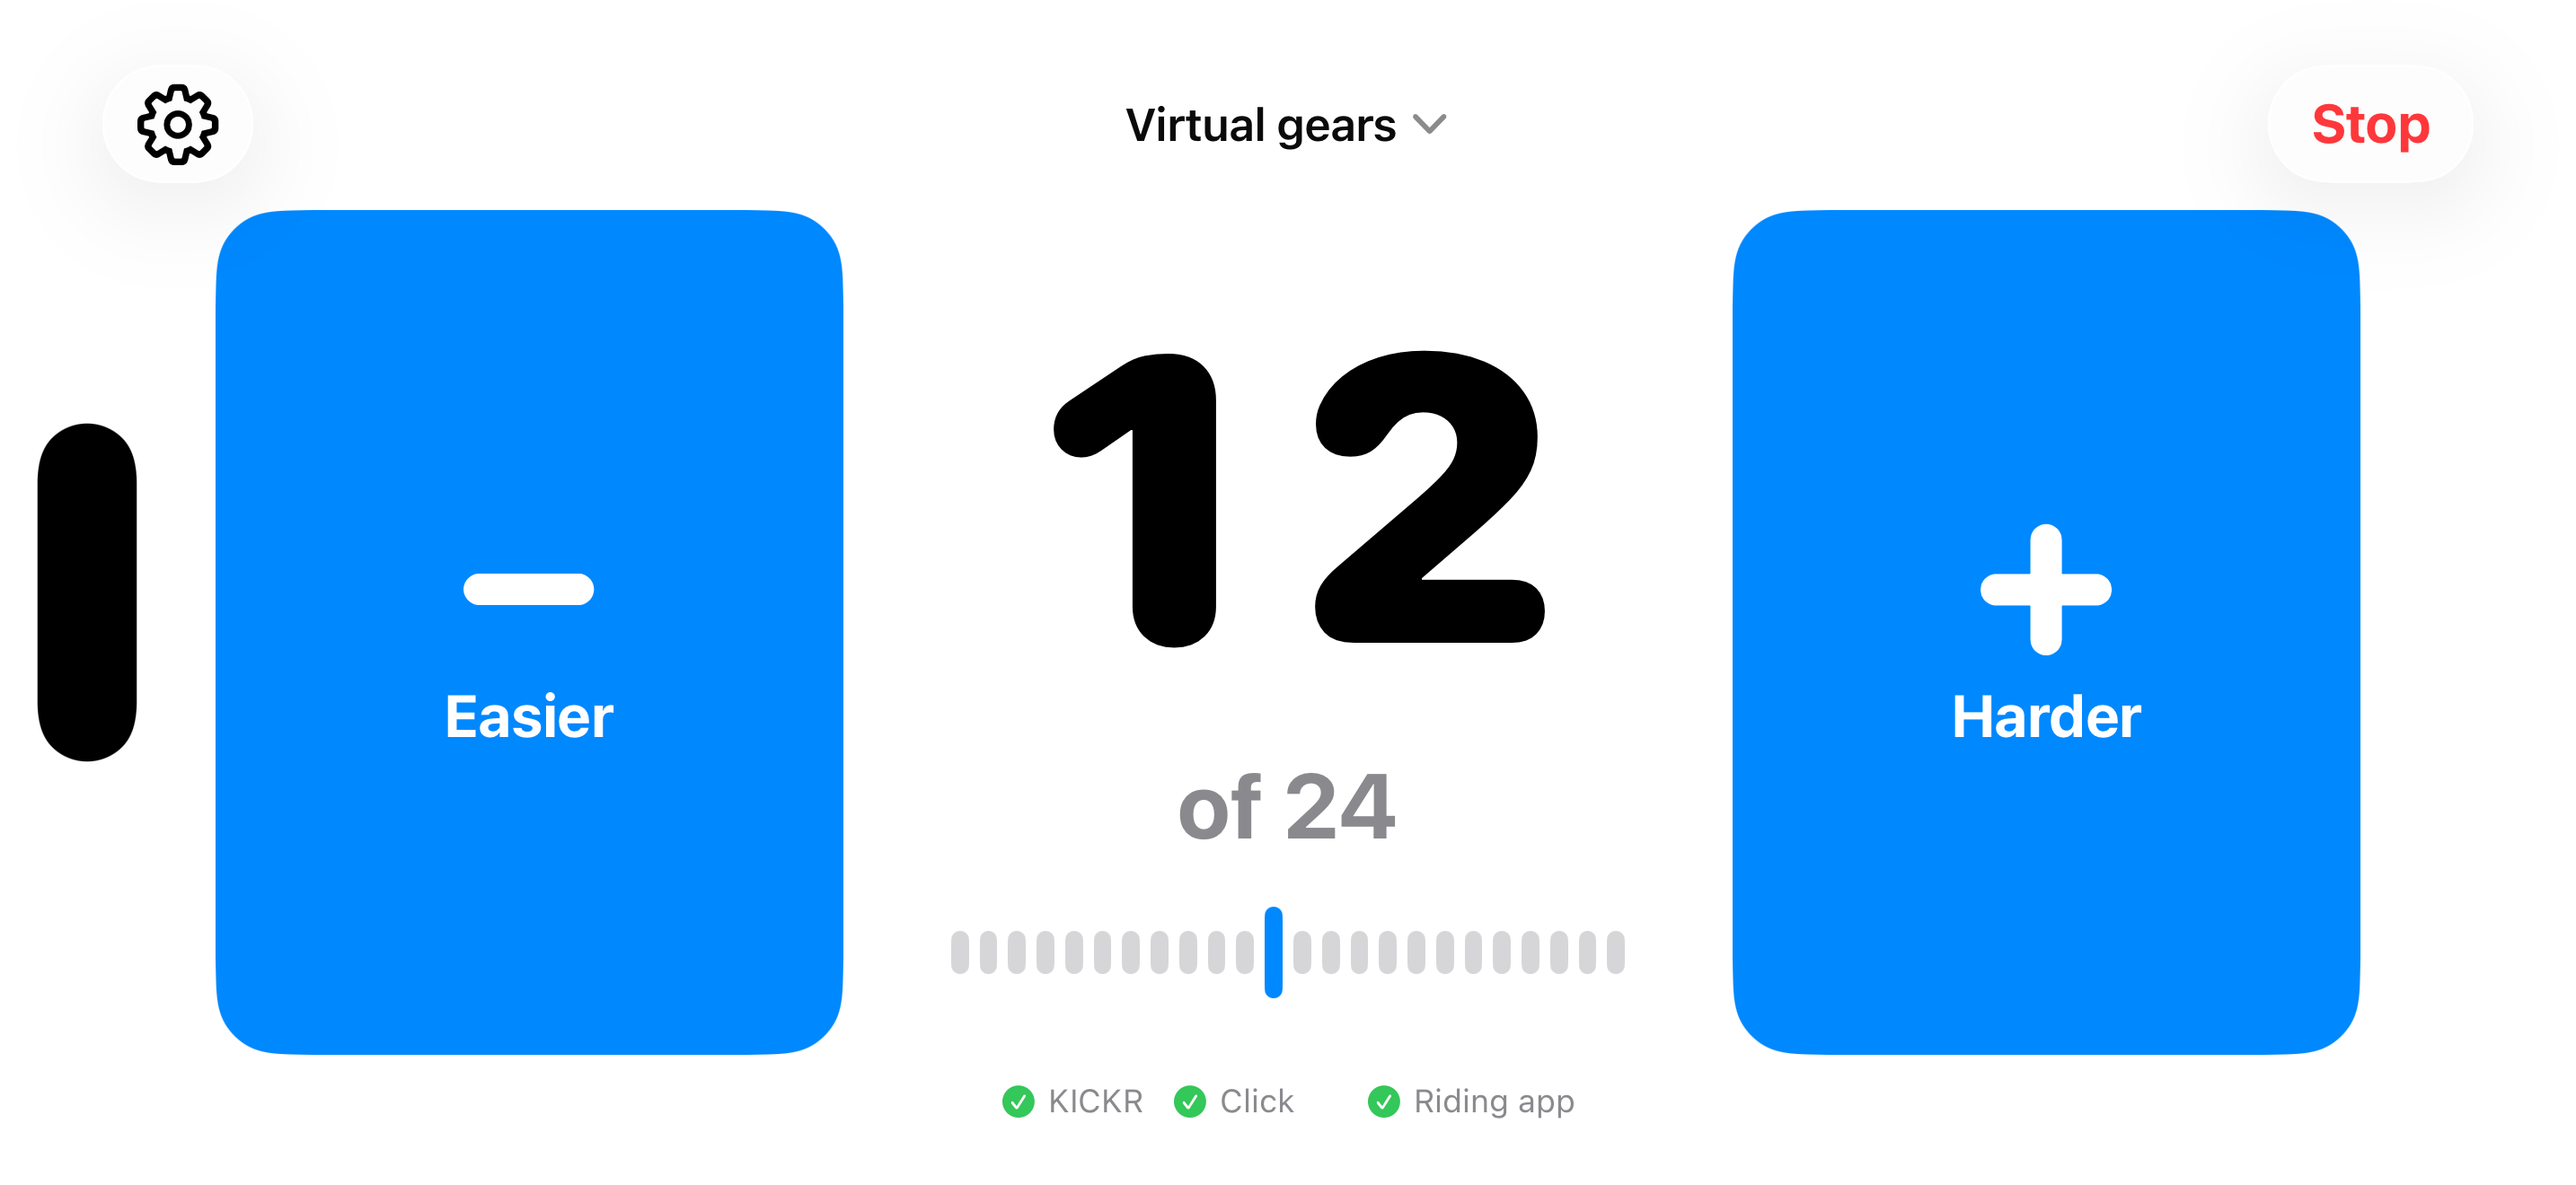
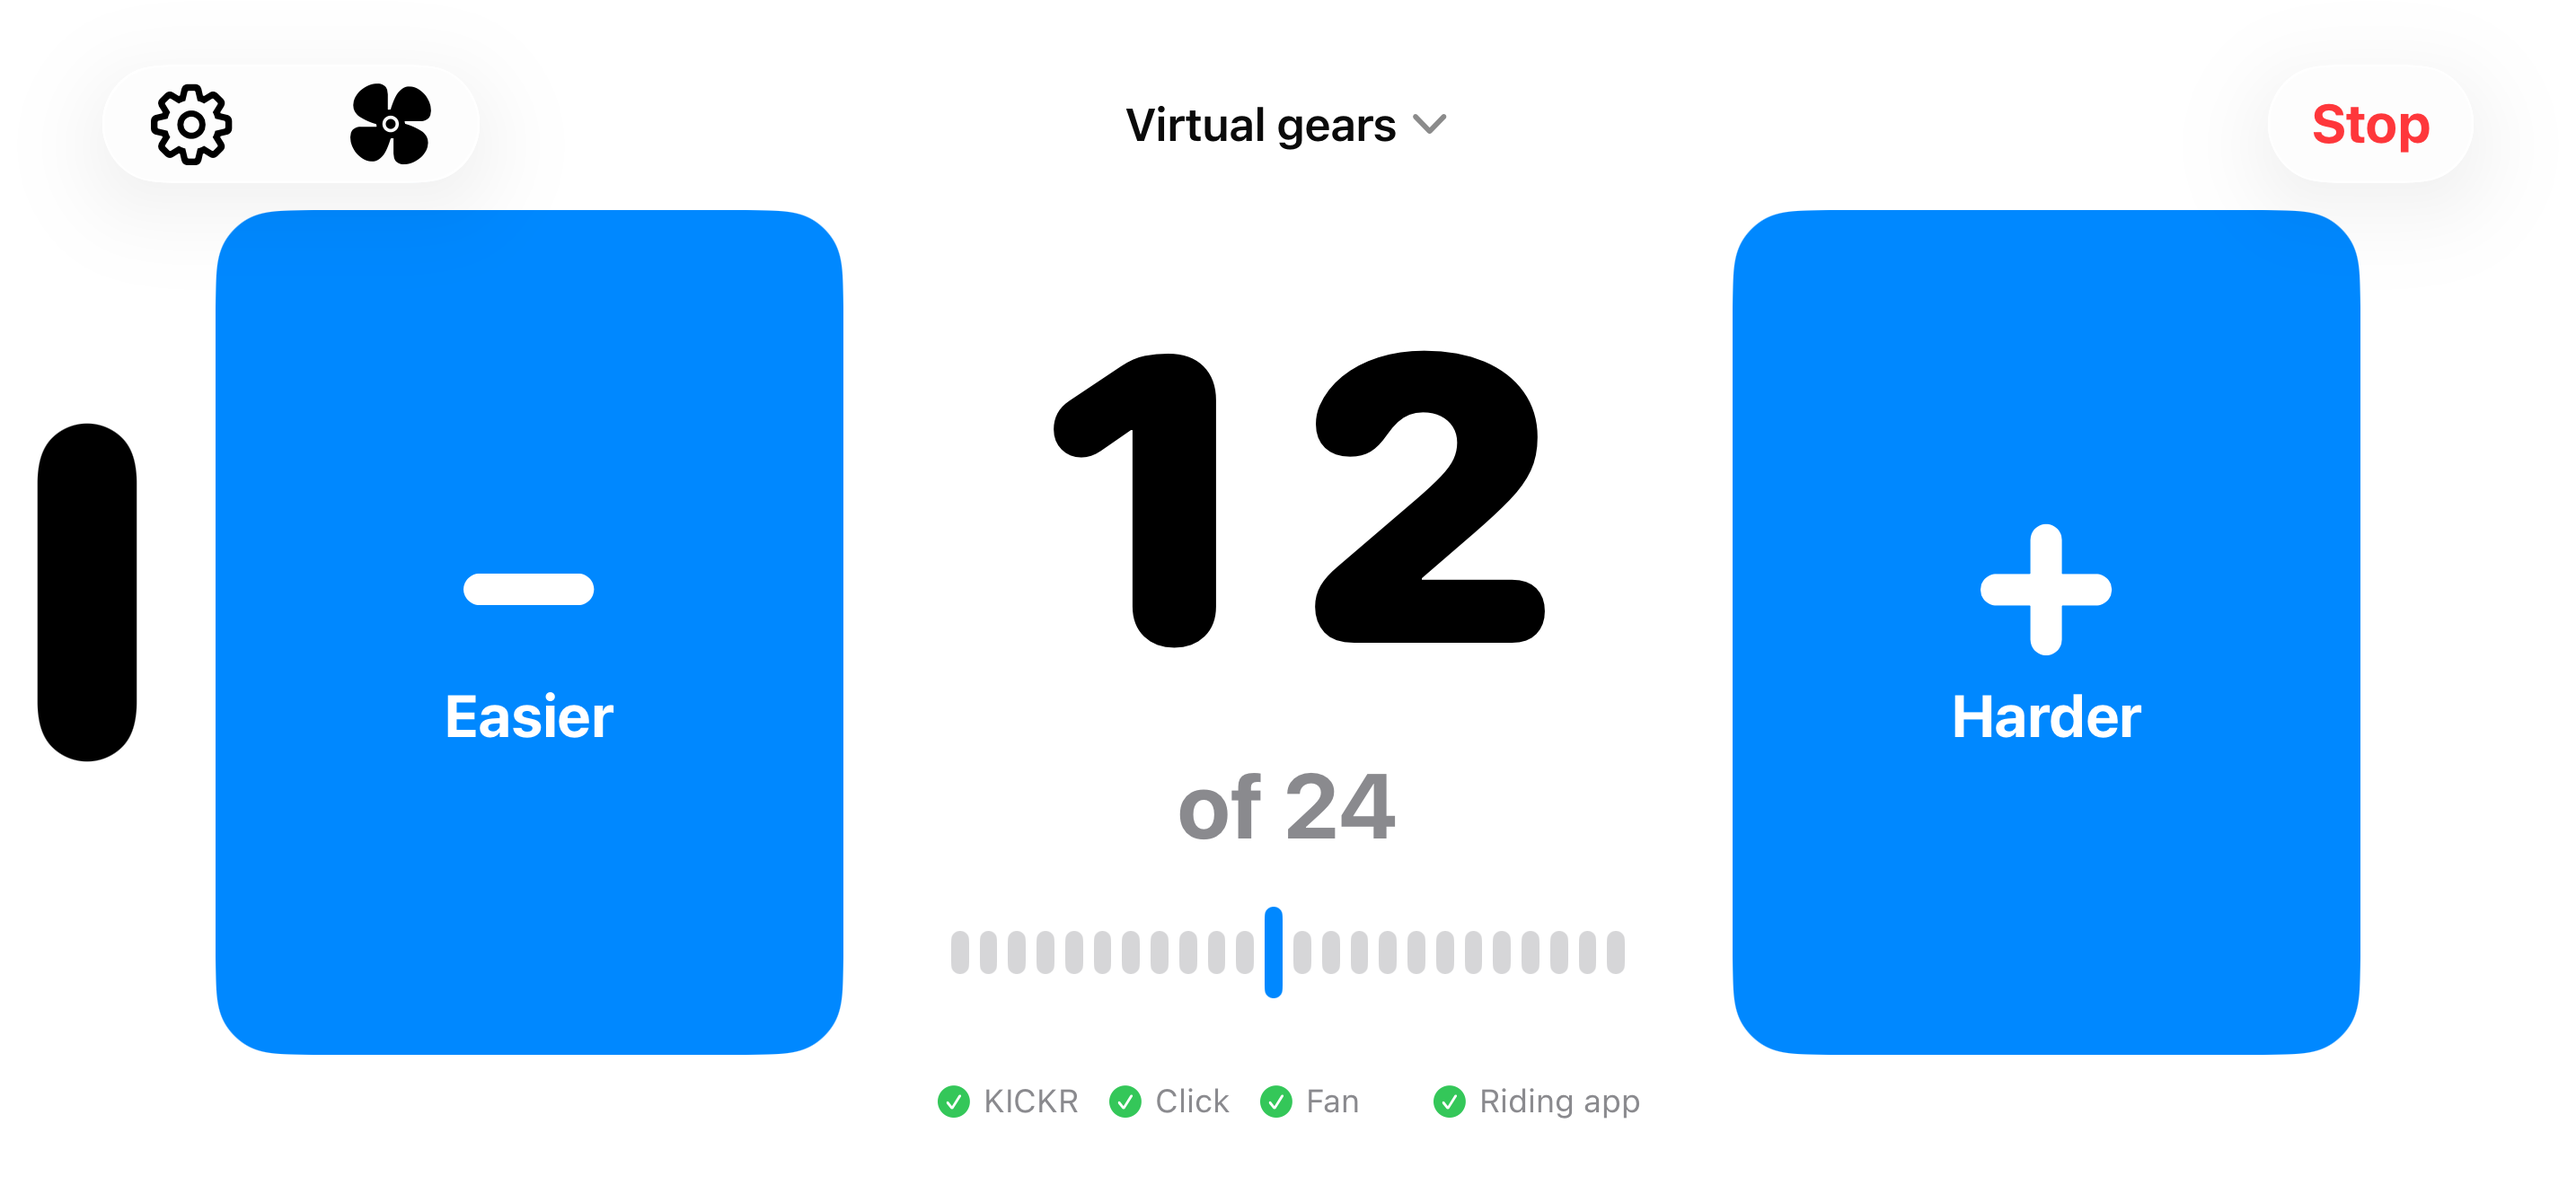
Refresh Headwind documentation
Update every committed screenshot, add portrait and landscape Headwind controls, and keep the App Store and website copy aligned with the shipped UI.

Copilot-Session: 2c3d711c-cb97-4bfa-a302-2d01fe5d2f1f

Changed region(s): [[0.3414, 0.9008, 0.6206, 0.9629], [0.1241, 0.0621, 0.1862, 0.1553], [0.031, 0.0621, 0.0931, 0.1553]]

diff --git a/VirtualShiftProduct/SetupView.swift b/VirtualShiftProduct/SetupView.swift
@@ -610,9 +610,9 @@ struct GearChoiceView: View {
             } footer: {
                 Text(
                     store.configuration.usesVirtualGears
-                        ? "The same 24 virtual gears Zwift and Wahoo use. They "
-                            + "belong to no particular bike and suit everything "
-                            + "from a standing start to a sprint."
+                        ? "Twenty-four very wide virtual gears, from an easier "
+                            + "climbing gear to the same hard end. They belong "
+                            + "to no particular bike."
                         : "Copy the numbers printed on your own bike, or pick "
                             + "any combination you would like to ride. It does "
                             + "not have to be a set that anyone sells."

diff --git a/docs/APP_STORE.md b/docs/APP_STORE.md
@@ -64,9 +64,8 @@ fallback such as `VirtualShift Gears` keeps the app's own name intact.
     gives a KICKR V5 gears anyway, in whichever app you ride with.
 
     Sit the app between your iPhone and the app you ride with on your computer, and
-    you get a full set of gears you can shift through mid-ride — either the 24 evenly
-    spaced virtual gears used by indoor riding apps, or an exact copy of the gears on
-    your real bike.
+    you get a full set of gears you can shift through mid-ride — either 24 very wide
+    virtual gears, or an exact copy of the gears on your real bike.
 
     NOTHING TO SET UP
     Open the app and it starts. It finds your trainer, connects to it, starts the
@@ -81,9 +80,9 @@ fallback such as `VirtualShift Gears` keeps the app's own name intact.
     you would actually ride. Cross-chained and duplicate combinations are left out.
 
     BUILT FOR RIDING, NOT FOR READING
-    Two shift buttons fill most of the screen, so you can hit them without looking
-    down or sitting up. Hold one to keep shifting. The screen stays awake for the
-    whole ride.
+    Two large shift buttons stay easy to hit without looking down or sitting up,
+    while the current gear is the biggest thing on screen. Hold one to keep shifting.
+    The screen stays awake for the whole ride.
 
     WORKS WITH THE APPS YOU ALREADY USE
     VirtualShift appears as an ordinary indoor trainer, so any app that pairs with a
@@ -93,6 +92,11 @@ fallback such as `VirtualShift Gears` keeps the app's own name intact.
     OPTIONAL SHIFT BUTTONS
     If you have a handlebar shift controller, VirtualShift will use it alongside the
     on-screen buttons. It is never required and the app never waits for it.
+
+    OPTIONAL HEADWIND CONTROL
+    If you have a Wahoo KICKR HEADWIND, VirtualShift can reconnect it automatically.
+    Leave fan speed with the Headwind's own sensor, or choose a manual speed from the
+    ride screen. The fan is optional and never blocks a ride.
 
     CAREFUL WITH YOUR TRAINER
     A gear is only shown after your trainer confirms it. Every gear stays inside a
@@ -124,22 +128,20 @@ fallback such as `VirtualShift Gears` keeps the app's own name intact.
 
 ### Screenshots
 
-Required: **6.9-inch iPhone**. The five portrait images in `docs/screenshots/`
+Required: **6.9-inch iPhone**. The six portrait images in `docs/screenshots/`
 are 1320 × 2868, captured on an iPhone 17 Pro Max simulator, so they can be
 uploaded as they are. Apple scales them down for smaller phones; one set is
-enough. `riding-landscape.png` is the 2868 × 1320 documentation view and is not
-part of the upload set below.
+enough. The two landscape images are 2868 × 1320 documentation views; they are
+not part of the portrait upload set below.
 
-Upload these three, in this order:
+Upload these six, in this order:
 
 1. `riding.png` — the ride screen, which is what the app is for.
 2. `gears.png` — the 24 virtual gears drawn as bars.
 3. `gears-real-bike.png` — a real 50/34 with 11-34 turned into sixteen gears.
-
-Do **not** upload `settings.png` as it stands: it was captured with no trainer
-present and shows an orange "your trainer is not connected" warning. The updated
-`starting.png` is suitable for documentation and shows the named trainer and Click
-states, but the three images above still tell the App Store story more directly.
+4. `headwind-control.png` — optional Headwind sensor/manual fan control.
+5. `starting.png` — automatic reconnect for the trainer, Click and Headwind.
+6. `settings.png` — the three remembered equipment rows and gear choice.
 
 ### Privacy answers ("App Privacy" section)
 
@@ -177,6 +179,9 @@ you explain it. Paste this into **App Review Information → Notes**:
     trainer and relays the trainer's data back, while applying the rider's chosen gear
     by rescaling the trainer's wheel-circumference setting. This is what produces the
     virtual gears.
+
+    A Wahoo KICKR HEADWIND fan can optionally be paired for sensor or manual speed
+    control. It is not required to review the trainer and virtual-shifting features.
 
     No account, no login, no server. The app contains no networking code.
 

diff --git a/README.md b/README.md
@@ -26,14 +26,19 @@ passes everything through in both directions, and applies your chosen gear on
 top. The riding app still controls the road: hills feel like hills.
 
 <p align="center">
-  <img src="docs/screenshots/starting.png" width="24%" alt="The saved trainer connecting while the Zwift Click is already connected">
-  <img src="docs/screenshots/riding.png" width="24%" alt="The ride screen, showing gear 12 of 24">
+  <img src="docs/screenshots/starting.png" width="24%" alt="The saved trainer connecting while the Zwift Click and Headwind are connected">
+  <img src="docs/screenshots/riding.png" width="24%" alt="The ride screen, showing gear 12 of 24 with trainer, Click, Headwind and riding app connected">
   <img src="docs/screenshots/gears.png" width="24%" alt="The 24 virtual gears drawn as bars">
   <img src="docs/screenshots/gears-real-bike.png" width="24%" alt="A real 50/34 with 11-34, drawn as sixteen gears">
 </p>
 
 <p align="center">
   <img src="docs/screenshots/riding-landscape.png" width="80%" alt="The landscape ride screen, with gear 12 between large Easier and Harder buttons">
+</p>
+
+<p align="center">
+  <img src="docs/screenshots/headwind-control.png" width="24%" alt="Headwind manual fan control at 50 percent in portrait">
+  <img src="docs/screenshots/headwind-control-landscape.png" width="56%" alt="Headwind manual fan control at 50 percent in landscape">
 </p>
 
 ## What you get
@@ -55,7 +60,8 @@ gears, but it is never required and nothing ever waits for it.
 
 **Optional Headwind control.** Add a Wahoo Headwind and switch between its own
 sensor control and a manual fan speed from the ride screen. Returning to Sensors
-is explicitly confirmed before VirtualShift disconnects from the fan.
+is explicitly confirmed before VirtualShift disconnects from the fan. The
+controls work in both portrait and landscape.
 
 **Nothing to set up.** Open the app. It looks for your trainer, connects to it,
 starts the session and appears to your riding app, all on its own. There is no

diff --git a/docs/demo.md b/docs/demo.md
@@ -21,15 +21,28 @@
 ## What a ride looks like
 
 <figure markdown>
-  ![The saved trainer connecting while the Zwift Click is already connected](screenshots/starting.png){ width="280" }
+  ![The saved trainer connecting while the Zwift Click and Headwind are connected](screenshots/starting.png){ width="280" }
   <figcaption>Open the app and it goes looking for your trainer. There is
-  nothing to press.</figcaption>
+  nothing to press. Optional equipment reconnects by itself.</figcaption>
 </figure>
 
 <figure markdown>
   ![The ride screen, showing gear 12 of 24](screenshots/riding.png){ width="280" }
   <figcaption>The ride screen. Two large buttons, a gear number big enough to
-  read from the saddle, and your power and cadence passing through.</figcaption>
+  read from the saddle, a fan button when a Headwind is added, and live
+  connection state along the bottom.</figcaption>
+</figure>
+
+<figure markdown>
+  ![Headwind manual fan control at 50 percent](screenshots/headwind-control.png){ width="280" }
+  <figcaption>An optional Headwind can stay with its own sensor or use a manual
+  speed. Slower and Faster are large enough to use on the bike.</figcaption>
+</figure>
+
+<figure markdown>
+  ![Settings with trainer, Zwift Click and Wahoo Headwind](screenshots/settings.png){ width="280" }
+  <figcaption>Trainer, Click and Headwind are remembered in one ordinary
+  Settings screen.</figcaption>
 </figure>
 
 <figure markdown>

diff --git a/docs/index.md b/docs/index.md
@@ -44,7 +44,7 @@ required. A Wahoo Headwind can also be added, with a choice between its own
 sensor control and manual fan speed.
 
 <p align="center">
-  <img src="screenshots/riding.png" width="30%" alt="The ride screen, showing gear 12 of 24">
+  <img src="screenshots/riding.png" width="30%" alt="The ride screen, showing gear 12 of 24 with the Headwind connected">
   <img src="screenshots/gears.png" width="30%" alt="The 24 virtual gears drawn as bars">
   <img src="screenshots/gears-real-bike.png" width="30%" alt="A real 50/34 with 11-34, drawn as sixteen gears">
 </p>
@@ -75,6 +75,11 @@ An optional Wahoo Headwind can use its own paired sensor or a manual speed from
 the ride screen. Manual mode stays on the fan even after Bluetooth disconnects,
 so VirtualShift explicitly returns it to Sensors and waits for confirmation
 before forgetting or replacing it.
+
+<p align="center">
+  <img src="screenshots/headwind-control.png" width="30%" alt="Headwind manual fan control at 50 percent in portrait">
+  <img src="screenshots/headwind-control-landscape.png" width="60%" alt="Headwind manual fan control at 50 percent in landscape">
+</p>
 
 ### Nothing to set up
 
